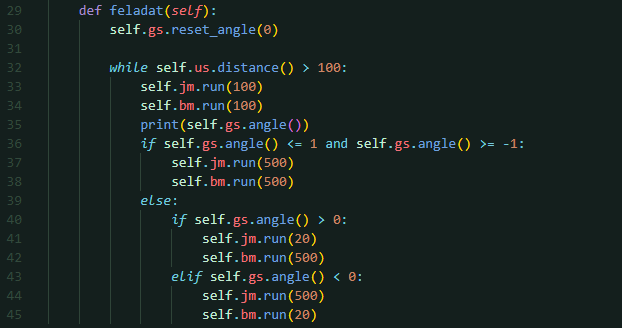
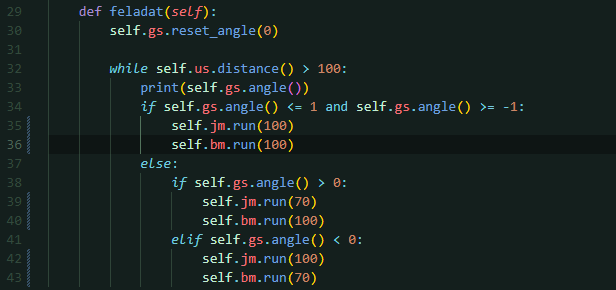
program valtozaosk

diff --git a/Program.py b/Program.py
@@ -30,18 +30,16 @@ class Program():
         self.gs.reset_angle(0)
 
         while self.us.distance() > 100:
-            self.jm.run(100)
-            self.bm.run(100)
             print(self.gs.angle())
             if self.gs.angle() <= 1 and self.gs.angle() >= -1:
-                self.jm.run(500)
-                self.bm.run(500)
+                self.jm.run(100)
+                self.bm.run(100)
             else:
                 if self.gs.angle() > 0:
-                    self.jm.run(20)
-                    self.bm.run(500)
+                    self.jm.run(70)
+                    self.bm.run(100)
                 elif self.gs.angle() < 0:
-                    self.jm.run(500)
-                    self.bm.run(20)
+                    self.jm.run(100)
+                    self.bm.run(70)
                     
 
